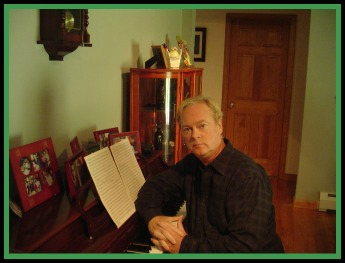
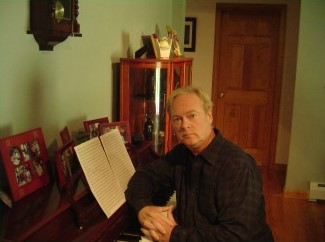
Site Update
Minor updates to side pages -- follow up from content and design meeting.

diff --git a/career.html b/career.html
@@ -113,20 +113,47 @@
                 </label>
                 <input type="checkbox" id="text-toggle-three" class="text-toggle-three">
                 <div class="text-section-three">
-                    <p class="text-edit"><span class="text-edit-b">Bachelor of Music</span> in Music Performance (Trumpet, Minor in composition) New England Conservatory of Music 1975.</p>
-                    <p class="text-edit"><span class="text-edit-b">Master of Music</span> in Wind Conducting (Minor in composition) New England Conservatory of Music 1977.</p>
-                    <p class="text-edit"><span class="text-edit-b">Doctor of Music</span> (Wind Conducting /Composition) Northwestern University 1993.</p>
-                    <p class="text-edit"><span class="text-edit-b">Advanced Graduate Degree</span> in Educational Leadership National Louis University 2000.</p>
+                    <p><span class="text-edit-b">Bachelor of Music</span></p>
+                    <p>Music Performance (Trumpet, Minor in composition)</p>
+                    <p>New England Conservatory of Music</p>
+                    <p class="text-edit">1975</p>
+
+                    <p><span class="text-edit-b">Master of Music</span></p>
+                    <p>Wind Conducting (Minor in composition)</p>
+                    <p>New England Conservatory of Music</p>
+                    <p class="text-edit">1977</p>
+
+
+                    <p><span class="text-edit-b">Doctor of Music</span></p>
+                    <p>Wind Conducting /Composition</p>
+                    <p>Northwestern University</p>
+                    <p class="text-edit">1993</p>
+
+
+                    <p><span class="text-edit-b">Advanced Graduate Degree</span></p>
+                    <p>Educational Leadership</p>
+                    <p>National Louis University</p>
+                    <p class="text-edit">2000</p>
 
                     <br />
 
-                    <p class="text-edit"><span class="text-edit-b">Member</span> of Pi Kappa Lambda Alpha Chapter 1993.</p>
-                    <p class="text-edit"><span class="text-edit-b">Member</span> of Alpha Psi Omega Dramatic Fraternity 1995.</p>
+                    <p><span class="text-edit-b">Member</span></p>
+                    <p>Pi Kappa Lambda Alpha Chapter</p>
+                    <p class="text-edit">1993</p>
+
+                    <p><span class="text-edit-b">Member</span></p>
+                    <p>Alpha Psi Omega Dramatic Fraternity</p>
+                    <p class="text-edit">1995</p>
 
                     <br />
 
-                    <p class="text-edit"><span class="text-edit-b">Certification</span> in Teaching Music K - 12 New Hampshire, Illinois.</p>
-                    <p class="text-edit"><span class="text-edit-b">Certification</span> of Administrative K - 12 Principal New Hampshire , Illinois.</p>
+                    <p><span class="text-edit-b">Certification</span></p>
+                    <p>Teaching Music K - 12</p>
+                    <p class="text-edit">New Hampshire, Illinois</p>
+
+                    <p><span class="text-edit-b">Certification</span></p>
+                    <p>Administrative K - 12 Principal</p>
+                    <p>New Hampshire , Illinois</p>
                 </div>
             </div>
         </section>

diff --git a/resources.html b/resources.html
@@ -39,35 +39,39 @@
 
             <div class="color-wrap-b">
                 <section class="text-box">
-                    <p>The Theorbo - An amazing early instrument:</p>
+                    <p class="text-edit-b">The Theorbo</p>
+                    <p>An amazing early instrument.</p>
                     <p><a class="link" href="https://www.youtube.com/watch?v=qeUcGD4rRRc" target="_blank">Watch on YouTube!</a></p>
                 </section>
 
                 <hr class="hr">
 
                 <section class="text-box">
-                    <p>A Wonderful Lute Quartet:</p>
+                    <p class="text-edit-b">A Wonderful Lute Quartet</p>
                     <p><a class="link" href="https://www.youtube.com/watch?v=Lg9HnYN-K6M" target="_blank">Watch on YouTube!</a></p>
                 </section>
 
                 <hr class="hr">
 
                 <section class="text-box">
-                    <p>Marcin Patrzalek (he is amazing):</p>
+                    <p class="text-edit-b">Marcin Patrzalek</p>
+                    <p>He is amazing!</p>
                     <p><a class="link" href="https://www.youtube.com/watch?v=nmb_831Io7w" target="_blank">Watch on YouTube!</a></p>
                 </section>
 
                 <hr class="hr">
 
                 <section class="text-box">
-                    <p>Who Says Early Music Isn’t Fun? (Try not to tap your foot to this French group!):</p>
+                    <p class="text-edit-b">Who Says Early Music Isn’t Fun?</p>
+                    <p>Try not to tap your foot to this French group!</p>
                     <p><a class="link" href="https://www.youtube.com/watch?v=6pEdfwqPFns" target="_blank">Watch on YouTube!</a></p>
                 </section>
 
                 <hr class="hr">
 
                 <section class="text-box">
-                    <p>Diminuendo And Crescendo In Blue - Duke Ellington & his Orchestra:</p>
+                    <p class="text-edit-b">Diminuendo And Crescendo In Blue</p>
+                    <p>Duke Ellington & his Orchestra</p>
                     <p><a class="link" href="https://www.youtube.com/watch?v=MemoebN05yM" target="_blank">Watch on YouTube!</a>
                     </p>
                 </section>
@@ -75,14 +79,16 @@
                 <hr class="hr">
 
                 <section class="text-box">
-                    <p>The Handel and Haydn Society of Boston - The Messiah:</p>
+                    <p class="text-edit-b">The Messiah</p>
+                    <p>The Handel and Haydn Society of Boston</p>
                     <p><a class="link" href="https://handelandhaydn.org/messiah-online/" target="_blank">Visit the site!</a></p>
                 </section>
 
                 <hr class="hr">
 
                 <section class="text-box">
-                    <p>Especially for young students - Interactive Beethoven:</p>
+                    <p class="text-edit-b">Interactive Beethoven</p>
+                    <p>Especially for young students</p>
                     <p><a class="link" href="https://hallo.beethoven.de/html5/start.html" target="_blank">Visit the site!</a></p>
                 </section>
             </div>

diff --git a/contact.html b/contact.html
@@ -35,21 +35,37 @@
 
     <main>
         <div class="color-wrap">
+
             <div class="text-box">
-                <p>If you have any questions, or would like to collaborate with Dr. Morris, please do not hesitate to reach out!</p>
-                <p>Send him an email at the following address:</p>
-                <p><strong>cmorrismusic93@gmail.com</strong></p>
+                <div class="text-margin">
+                    <p class="text-edit-b">Contact</p>
+                    <p>If you have any questions, or would like to collaborate with Dr. Morris, please do not hesitate to reach out!</p>
+                    <p>Email: <strong>cmorrismusic93@gmail.com</strong></p>
+                    <p>Phone: <strong>603-831-1693</strong></p>
+                </div>
             </div>
 
             <div class="text-box">
-                <a class="link" href="https://www.linkedin.com/in/christopher-morris-0083b81a1/" target="_blank">Visit Dr. Morris' LinkedIn.</a>
-                <br />
-                <br />
-                <p>For more information about VLACS, <a class="link" href="https://vlacs.org/" target="blank">visit the site!</a></p>
+                <div class="text-margin">
+                    <p class="text-edit-b">Social Media</p>
+                    <a class="link" href="https://www.linkedin.com/in/christopher-morris-0083b81a1/" target="_blank">LinkedIn.</a>
+                    <br />
+                    <br />
+                    <a class="link" href="#" target="_blank">Facebook.</a>
+
+                </div>
+            </div>
+
+            <div class="text-box">
+                <div class="text-margin">
+                    <p class="text-edit-b">VLACS</p>
+                    <p>For more information about the Virtural Learning Academy Charter School of New Hampshire, <a class="link" href="https://vlacs.org/" target="blank"><strong>visit the site!</strong></a></p>
+
+                </div>
             </div>
 
             <div class="img-box">
-                <img class="img" src="Peter and Chris.JPG">
+                <img class="img" src="Chris_home.jpg">
             </div>
         </div>
     </main>

diff --git a/contact-sr.css b/contact-sr.css
@@ -226,6 +226,11 @@ nav a:focus {
     background-color: var(--superlightaqua);
 }
 
+.text-margin {
+    margin-right: 30%;
+    margin-left: 30%;
+}
+
 .sub-heading {
     text-align: center;
     text-transform: uppercase;
@@ -251,6 +256,13 @@ nav a:focus {
     width: 65%;
 }
 
+.text-edit-b {
+    font-family: var(--font);
+    text-transform: uppercase;
+    font-weight: bold;
+    padding-bottom: .5rem;
+}
+
 
 /* IMG STYLES */
 
@@ -262,12 +274,11 @@ nav a:focus {
 
 .img {
     display: block;
-    width: 60%;
+    width: 40%;
     margin-right: auto;
     margin-left: auto;
     padding-top: 2rem;
     padding-bottom: 2rem;
-    filter: grayscale(25%);
     border-top: solid .1rem var(--background);
 }
 
@@ -282,7 +293,7 @@ nav a:focus {
         margin-right: 2%;
         margin-left: 2%;
         background-color: none;
-        font-size: 1rem;
+        font-size: 1.15rem;
         font-weight: bold;
     }
     .text-box {
@@ -292,6 +303,9 @@ nav a:focus {
     }
     .hr {
         display: none;
+    }
+    .text-margin {
+        margin: 0;
     }
 }
 

diff --git a/career-style.css b/career-style.css
@@ -426,16 +426,25 @@ hr {
 .text-section-three {
     background-color: rgba(255, 255, 255, .5);
     padding: 2rem;
-    margin-top: 1.5rem;
-    margin-right: 2%;
+    margin-top: 2rem;
     margin-bottom: 2%;
-    margin-left: 2%;
-    text-align: justify;
+    width: 80%;
     font-size: 1rem;
     font-family: var(--text);
+    text-align: center;
     display: block;
     outline: solid .1rem var(--background);
     outline-offset: .5rem;
+}
+
+.text-edit {
+    margin-bottom: 1rem;
+}
+
+.text-edit-b {
+    font-family: var(--font);
+    text-transform: uppercase;
+    font-weight: bold;
 }
 
 .text-toggle-three:checked~.text-section-three {
@@ -476,15 +485,9 @@ hr {
     .link:hover {
         border-bottom: none;
     }
-    .text-edit {
-        margin-bottom: 1rem;
+    .text-section-three {
         font-size: .85rem;
         text-align: left;
-    }
-    .text-edit-b {
-        font-family: var(--font);
-        text-transform: uppercase;
-        font-weight: bold;
     }
 }
 
